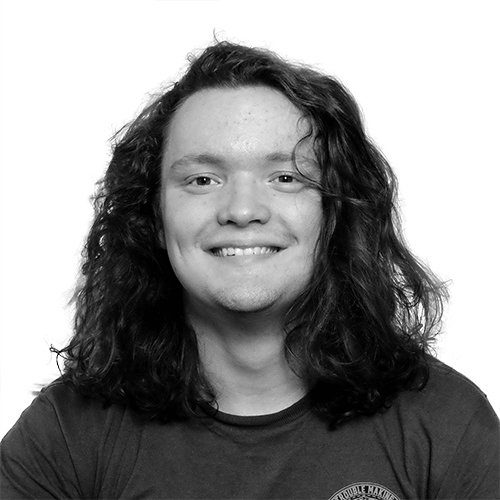
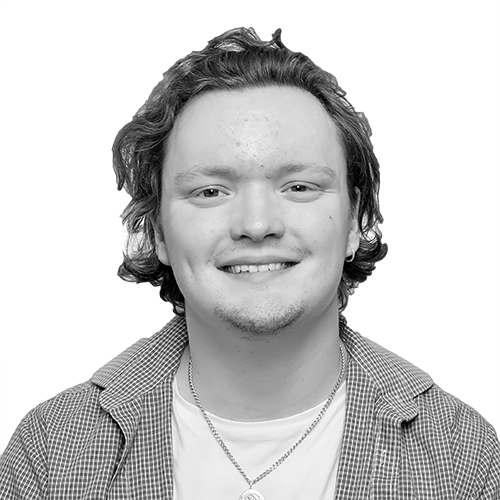
Uploading new dylan photo and ellie photo

diff --git a/about-us/index.html b/about-us/index.html
@@ -61,9 +61,9 @@ members:
     position: "Senior Advisor"
   -
     desc: "Unde labore corporis nam dignissimos tenetur vero enim. Eligendi est quam et in recusandae ratione facilis vel iste est rerum Unde labore corporis nam dignissimos tenetur vero enim. Eligendi est quam et in recusandae ratione facilis vel iste est rerum."
-    image: Adam.jpg
-    name: "Adam Laws"
-    position: "Success Manager"
+    image: Ellie.jpg
+    name: "Ellie Wright"
+    position: "Customer Success Manager"
   -
     desc: "Unde labore corporis nam dignissimos tenetur vero enim. Eligendi est quam et in recusandae ratione facilis vel iste est rerum Unde labore corporis nam dignissimos tenetur vero enim. Eligendi est quam et in recusandae ratione facilis vel iste est rerum."
     image: Jamie.jpg
